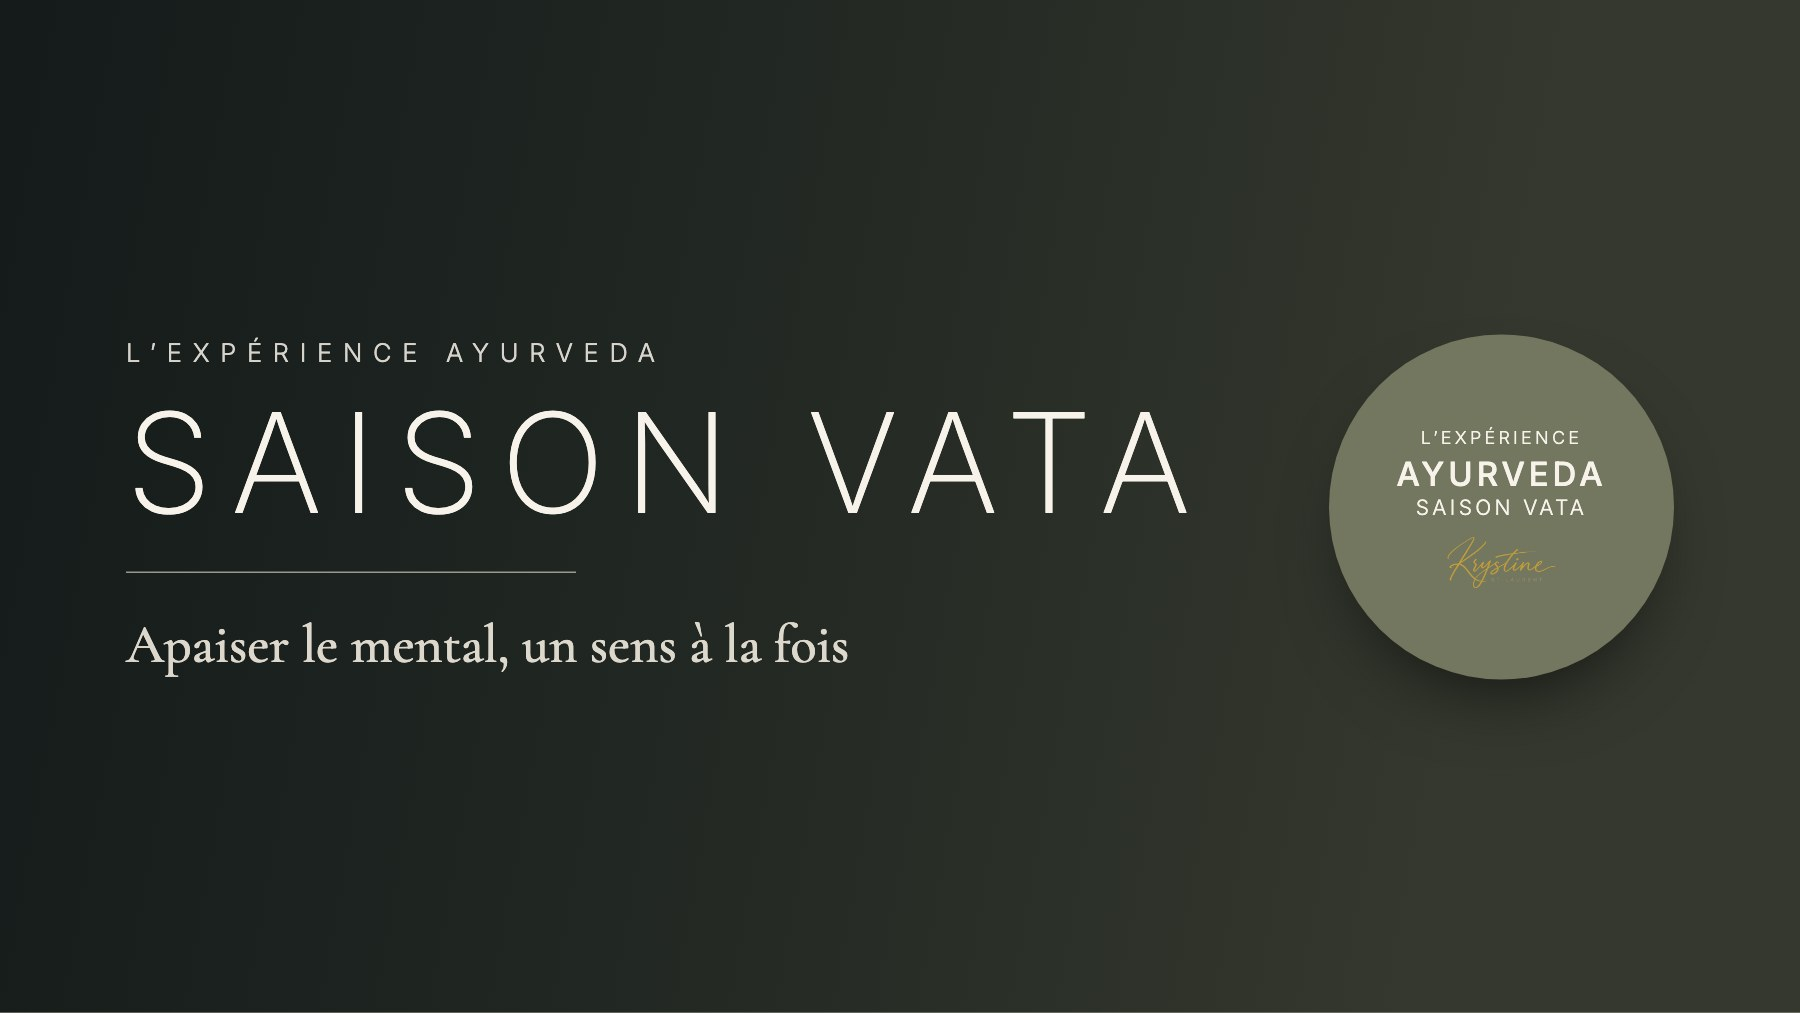
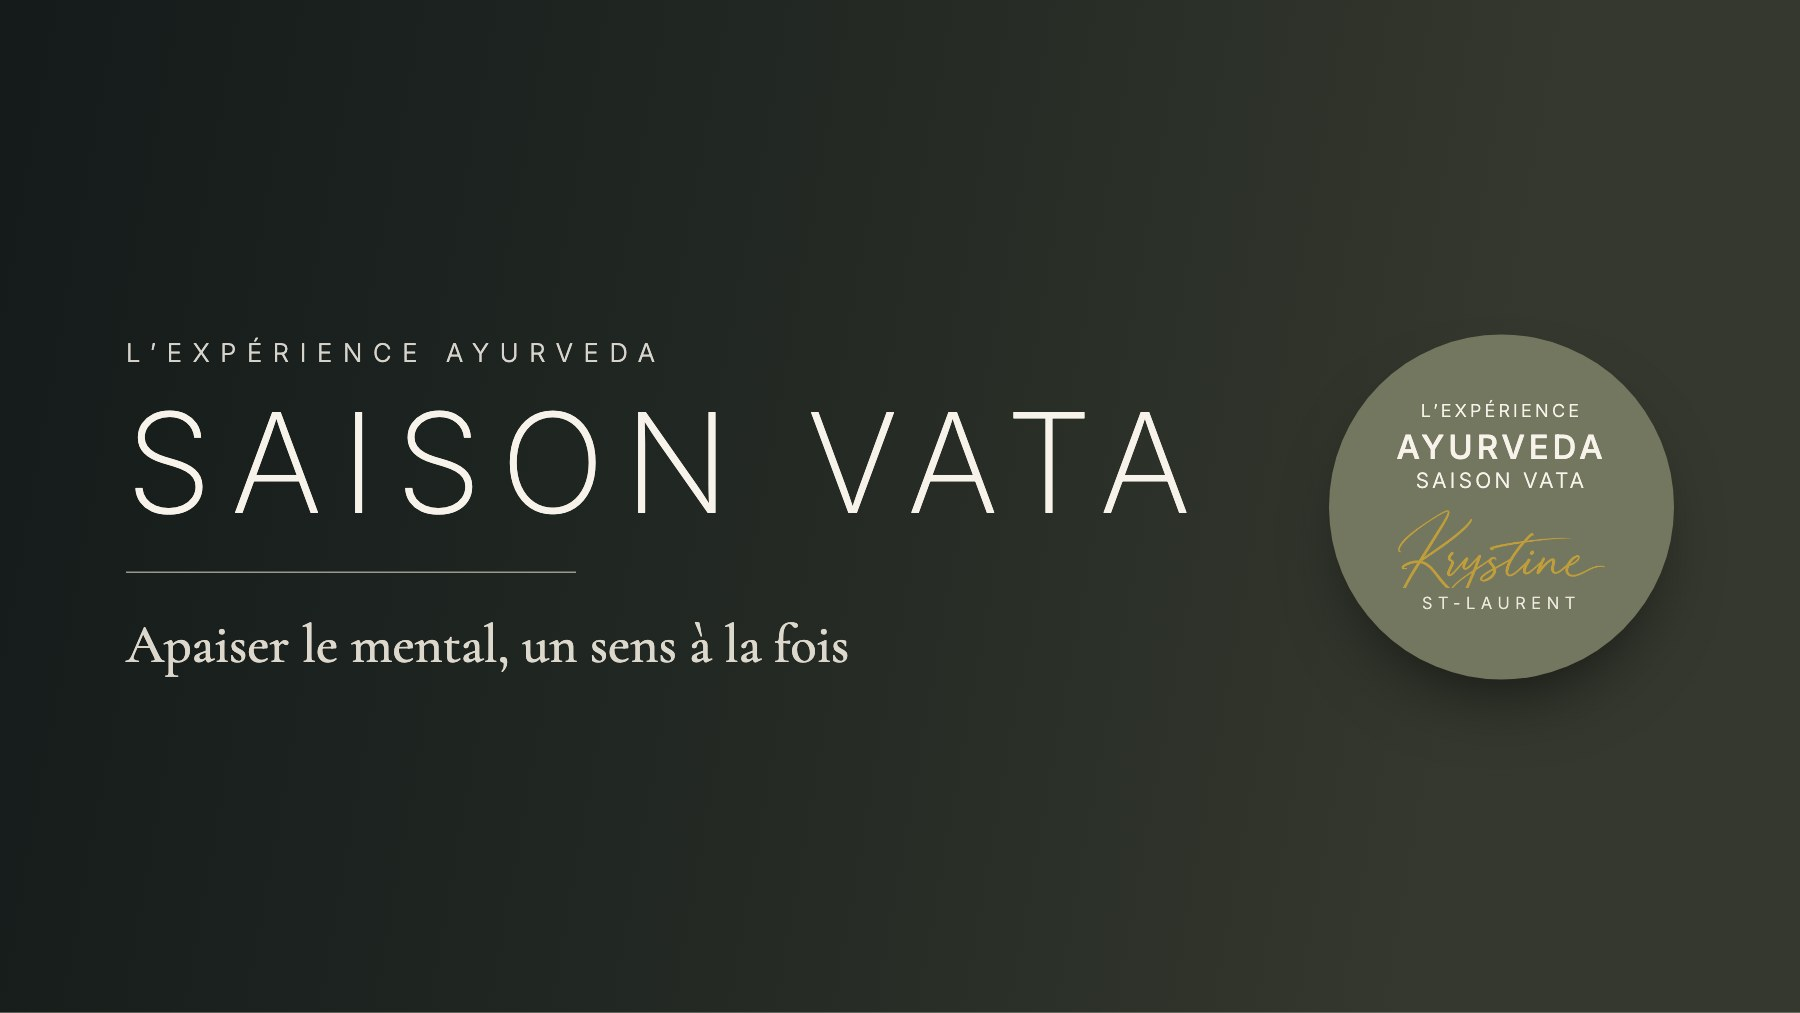
Vata : dans le sceau, « Krystine » en doré plus grand et « ST-LAURENT » en ivoire, lisible (bannière du cours et image de la carte)

Changed region(s): [[0.7778, 0.3978, 0.9022, 0.612]]

diff --git a/src/components/cours/SeuilVata.tsx b/src/components/cours/SeuilVata.tsx
@@ -121,7 +121,8 @@ const SeuilVata: React.FC<Props> = ({ programme, format, image, video, decor, un
           <span className="text-[8px] font-light uppercase tracking-[0.18em] md:text-[9px]">L’Expérience</span>
           <span className="mt-0.5 text-[13px] font-medium uppercase tracking-[0.12em] md:text-[15px]">Ayurveda</span>
           <span className="text-[9px] font-light uppercase tracking-[0.16em] md:text-[10px]">Saison Vata</span>
-          <img src="/compte/signature-krystine-or.webp" alt="" className="mt-2 h-5 w-auto opacity-90 md:h-6" />
+          <img src="/compte/signature-krystine-script-or.png" alt="" className="mt-2 h-7 w-auto md:h-9" />
+          <span className="mt-0.5 text-[7px] font-light uppercase tracking-[0.34em] text-[#F7F3EA]/90 md:text-[8px]">St-Laurent</span>
         </div>
         )}
       </motion.div>
